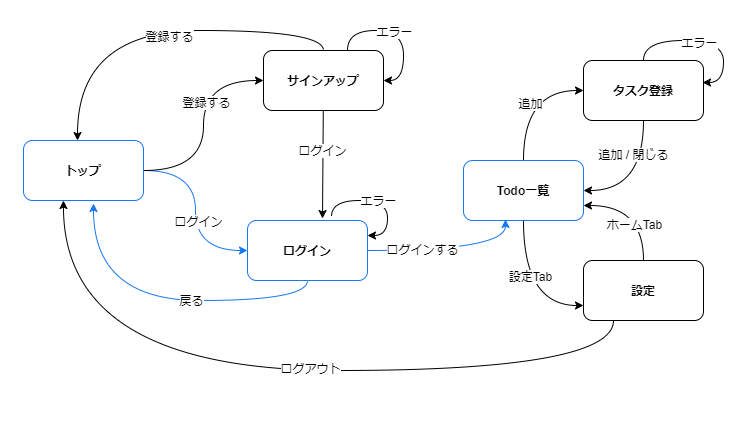
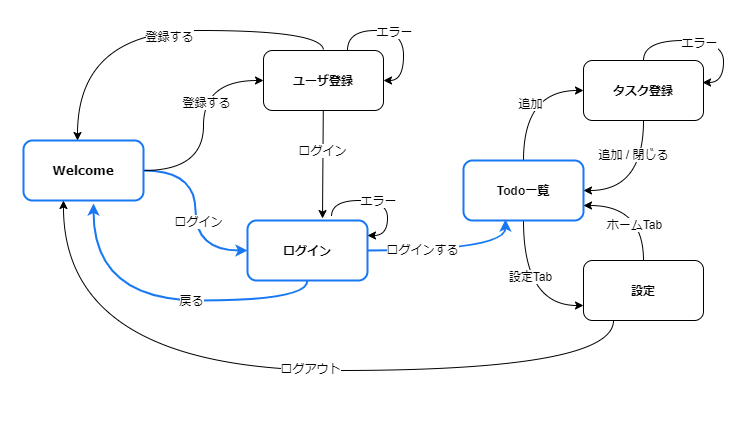
✨: 画面遷移図の画面名統一、強調箇所をわかりやすく

diff --git a/docs/react-native/learn/todo-app/app-spec.md b/docs/react-native/learn/todo-app/app-spec.md
@@ -42,7 +42,7 @@ title: ToDoアプリの仕様
 
 ![todo_board_all](app-spec/todo_board_all.png)
 
-### ToDo作成
+### タスク登録
 
 ![add_task](app-spec/add_task.png)
 
